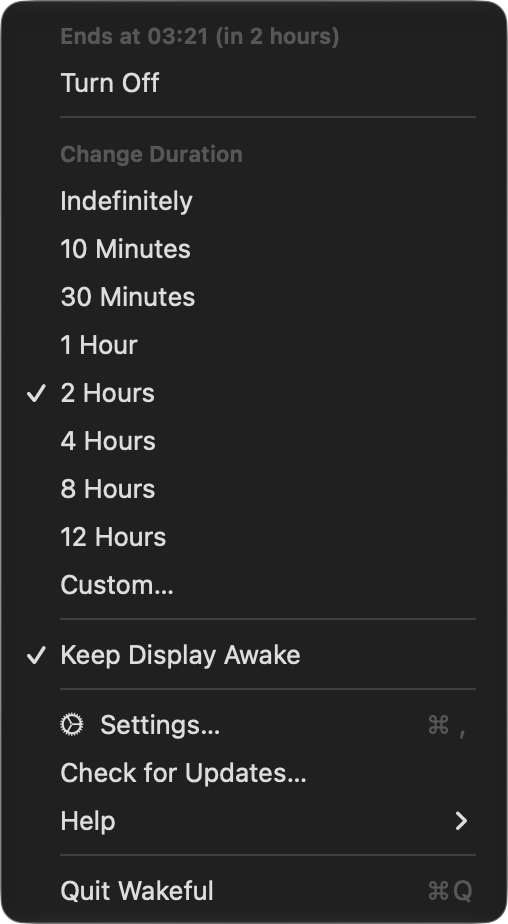
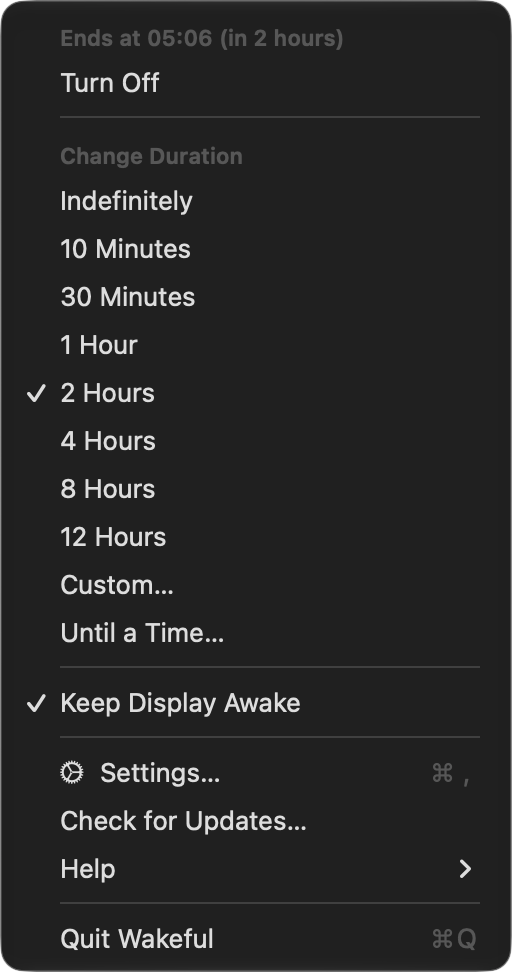
docs: document 0.3.0 and refresh screenshots

diff --git a/README.md b/README.md
@@ -14,7 +14,7 @@
 </p>
 
 <p align="center">
-  <img src=".github/assets/menu.png" width="254" alt="Wakeful menu">
+  <img src=".github/assets/menu.png" width="256" alt="Wakeful menu">
   &nbsp;&nbsp;
   <img src=".github/assets/settings.png" width="368" alt="Wakeful settings">
 </p>
@@ -29,8 +29,9 @@
 - Left-click the icon to turn on or off, if you want. Right-click then opens the menu.
 - A global keyboard shortcut to turn on or off.
 - Shortcuts actions, a `wakeful` command-line tool, and a `wakeful://` URL scheme for automation.
-- Show the time left next to the menu bar icon, if you want.
+- Show the time left next to the menu bar icon, if you want. Color the icon or add a dot while on, if you want.
 - Automatic updates, which you can turn off.
+- In English, Vietnamese, Spanish, French, German, Italian, Portuguese (Brazil), Russian, Japanese, Korean, and Chinese (Simplified and Traditional). Wakeful follows your Mac's language; to choose another, use Settings › General › Language.
 - No tracking. No network access except update checks.
 
 ## Requirements
@@ -49,9 +50,9 @@ Wakeful adds these actions to the Shortcuts app:
 
 | Action | Does |
 | --- | --- |
-| Turn On Wakeful | Turns on, with an optional duration or end time. |
+| Turn On Wakeful | Turns on, with an optional duration or end time, and an optional display choice for that session. |
 | Turn Off Wakeful | Turns off. |
-| Toggle Wakeful | Turns on or off, with an optional duration. Returns the new state. |
+| Toggle Wakeful | Turns on or off, with an optional duration and display choice. Returns the new state. |
 | Is Wakeful On | Returns true or false. |
 | Get Wakeful Time Left | Returns the time left. Returns nothing when off or on with no end time. |
 | Change Wakeful Time | Adds time, or removes it with a negative value. |

diff --git a/CHANGELOG.md b/CHANGELOG.md
@@ -6,6 +6,17 @@ The format is based on [Keep a Changelog](https://keepachangelog.com/en/1.1.0/),
 
 ## [Unreleased]
 
+### Added
+
+- Icon when on: Standard, Green, Blue, Green Dot or Blue Dot, in Settings.
+- Display choice in the Turn On and Toggle Shortcuts actions: keep the display awake or let it sleep for that session only.
+- Translations: Vietnamese, Spanish, French, German, Italian, Portuguese (Brazil), Russian, Japanese, Korean, and Chinese (Simplified and Traditional).
+- Language setting in Settings › General, to use Wakeful in a language other than the system's. It is the same per-app language as System Settings › General › Language & Region › Applications.
+
+### Fixed
+
+- After wake or a user switch, Wakeful checks that macOS still has its keep-awake request and makes it again if not.
+
 ## [0.2.0] - 2026-11-15
 
 ### Added

diff --git a/CONTRIBUTING.md b/CONTRIBUTING.md
@@ -26,6 +26,12 @@ Shortcuts actions do not run on the ad-hoc signed Debug build ("couldn't communi
 codesign --force --deep --options runtime --sign "Apple Development" build/DerivedData/Build/Products/Debug/Wakeful.app
 ```
 
+## Translations
+
+UI text is in `App/Localizable.xcstrings`, and Siri phrases are in `App/AppShortcuts.xcstrings`. Open them in Xcode to edit. Translations other than English and Vietnamese are new and not yet checked by native speakers, so corrections are welcome. To add a language, add it in Xcode's String Catalog editor and translate every string.
+
+## Tests
+
 Run the core tests without Xcode:
 
 ```bash
